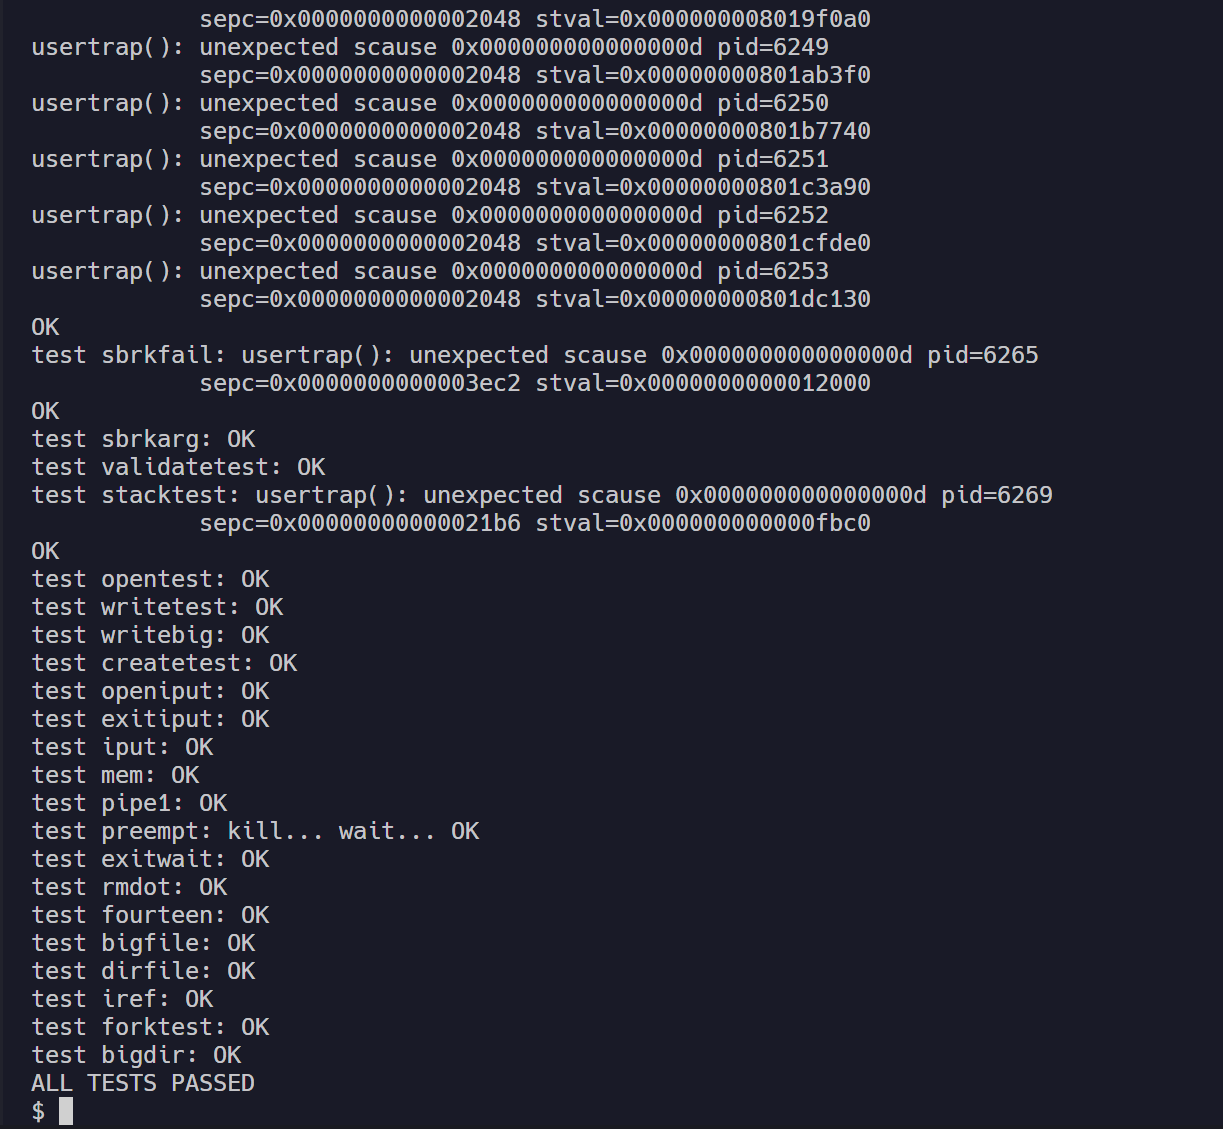
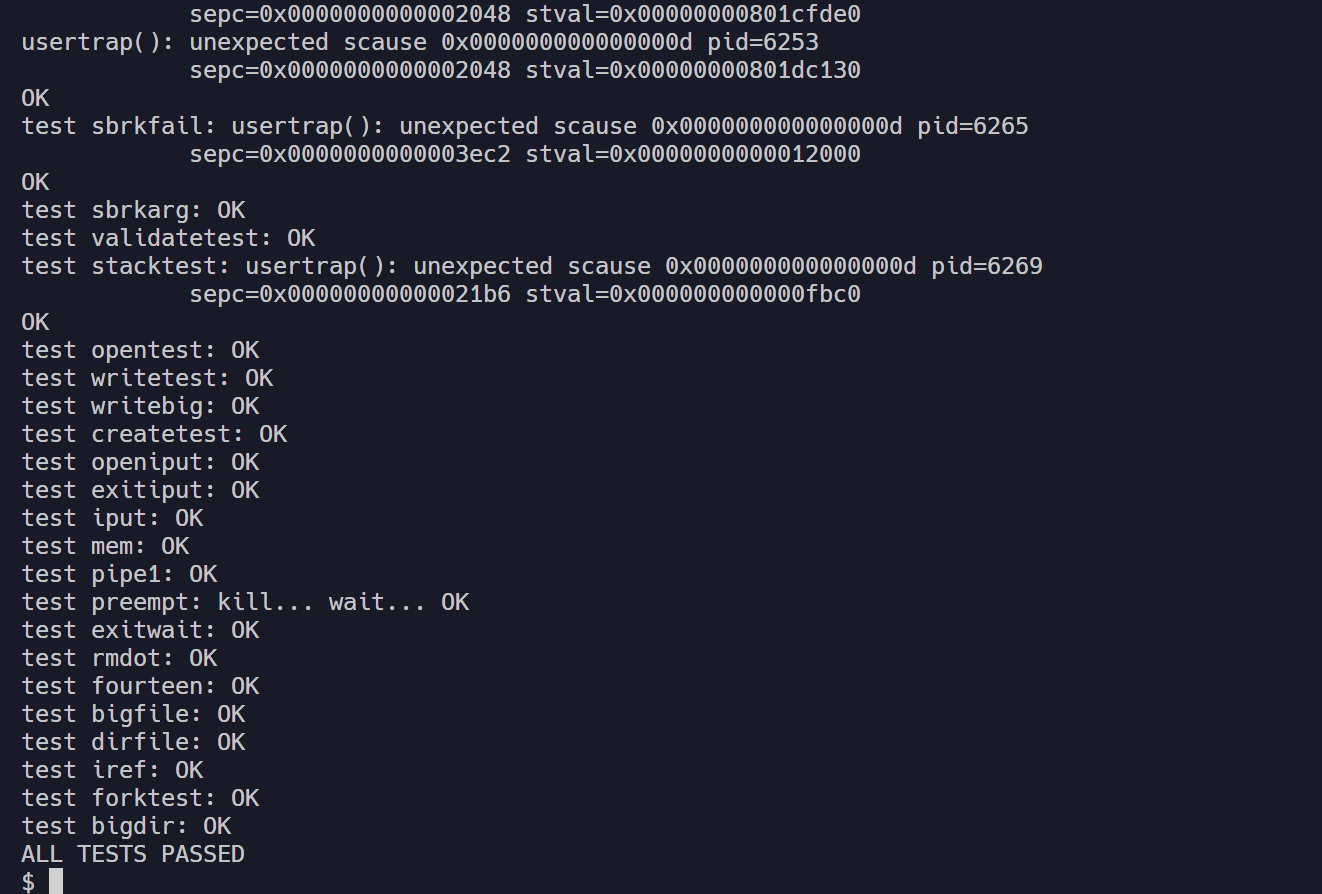
pgtbl:task3 finish

diff --git a/kernel/proc.c b/kernel/proc.c
@@ -34,7 +34,7 @@ void procinit(void) {
     // guard page.
     char *pa = kalloc();
     if (pa == 0) panic("kalloc");
-    p->kstack_pa = (uint64)pa;//pa本身是一个指针
+    p->kstack_pa = (uint64)pa;  // pa本身是一个指针
     uint64 va = KSTACK((int)(p - proc));
     kvmmap(va, (uint64)pa, PGSIZE, PTE_R | PTE_W);
     p->kstack = va;
@@ -118,29 +118,34 @@ found:
   p->context.ra = (uint64)forkret;
   p->context.sp = p->kstack + PGSIZE;
 
-  //设置内核页表
+  // 设置内核页表
   p->k_pagetable = kvminit_kpgtbl();
-  //将内核栈映射到内核页表中
-  if(p->kstack_pa==0){
+  // 将内核栈映射到内核页表中
+  if (p->kstack_pa == 0) {
     freeproc(p);
     release(&p->lock);
     return 0;
   }
 
-  kvmmap_kpgtbl(p->k_pagetable, p->kstack, p->kstack_pa, PGSIZE,  PTE_R | PTE_W);
+  kvmmap_kpgtbl(p->k_pagetable, p->kstack, p->kstack_pa, PGSIZE, PTE_R | PTE_W);
   return p;
 }
 
 // 释放页表但不释放叶子页表指向的物理页帧
-void proc_free_kernal_pgt(pagetable_t pagetable){
-  for(int i=0; i<512; i++){
+void proc_free_kernal_pgt(pagetable_t pagetable) {
+  for (int i = 0; i < 512; i++) {
     pte_t pte = pagetable[i];
-    if((pte & PTE_V) && (pte & (PTE_R | PTE_W | PTE_X)) == 0){
+    //内核页表的二级页表的页表项是否是与用户态页表指向同一地址空间
+    //那就把二级页表看作是叶子节点咯
+    if((pte & PTE_RSW_LOW) !=0 ){
+      pagetable[i] = 0;
+      continue;
+    }
+    if ((pte & PTE_V) && (pte & (PTE_R | PTE_W | PTE_X)) == 0) { //非第三级页表的页表项，还可以遍历
       uint64 child = PTE2PA(pte);
       proc_free_kernal_pgt((pagetable_t)child);
       pagetable[i] = 0;
-    }
-    else if(pte & PTE_V){
+    } else if (pte & PTE_V) {
       pagetable[i] = 0;
     }
   }
@@ -153,17 +158,19 @@ void proc_free_kernal_pgt(pagetable_t pagetable){
 static void freeproc(struct proc *p) {
   if (p->trapframe) kfree((void *)p->trapframe);
   p->trapframe = 0;
-  //释放用户态页表
+  // 释放用户态页表
   if (p->pagetable) proc_freepagetable(p->pagetable, p->sz);
   p->pagetable = 0;
-  //释放内核态页表
-  //释放内核态页表
-  //对于96个二级页表，释放用户页表时候已经释放
-  pagetable_t pa_2tbl = (pagetable_t)PTE2PA(p->k_pagetable[0]);
-  for(int i=0; i<96; i++){
-    pa_2tbl[i] = 0;
+  // 释放内核态页表
+  pagetable_t pa_2tbl = (pagetable_t)PTE2PA(p->k_pagetable[0]);//等号左边为2级页表
+  //不能多次回收归根原因是因为kfree是链表存储的kmem
+  //利用保留位的低位来标识
+  for (int i = 0; i < 96; i++) {
+    pa_2tbl[i] = PTE_RSW_LOW;//这些二级页表项对应的三级页表在用户态页表回收时已经被回收
   }
-  if(p->k_pagetable) proc_free_kernal_pgt(p->k_pagetable);
+  if (p->k_pagetable) {
+    proc_free_kernal_pgt(p->k_pagetable);
+  }
   p->k_pagetable = 0;
   p->sz = 0;
   p->pid = 0;
@@ -205,6 +212,7 @@ pagetable_t proc_pagetable(struct proc *p) {
 
 // Free a process's page table, and free the
 // physical memory it refers to.
+// 先删除物页框，再删除对应到物理页框的三级页表
 void proc_freepagetable(pagetable_t pagetable, uint64 sz) {
   uvmunmap(pagetable, TRAMPOLINE, 1, 0);
   uvmunmap(pagetable, TRAPFRAME, 1, 0);
@@ -219,16 +227,16 @@ uchar initcode[] = {0x17, 0x05, 0x00, 0x00, 0x13, 0x05, 0x45, 0x02, 0x97, 0x05, 
                     0x69, 0x74, 0x00, 0x00, 0x24, 0x00, 0x00, 0x00, 0x00, 0x00, 0x00, 0x00, 0x00};
 
 // Set up first user process.
-//task2初始化第一个进程的创建
+// task2初始化第一个进程的创建
 void userinit(void) {
   struct proc *p;
 
-  p = allocproc();//请和填写进程的PCB
+  p = allocproc();  // 请和填写进程的PCB
   initproc = p;
 
   // allocate one user page and copy init's instructions
   // and data into it.
-  //uvminit完成用户页表的初始化
+  // uvminit完成用户页表的初始化
   uvminit(p->pagetable, initcode, sizeof(initcode));
   p->sz = PGSIZE;
 
@@ -262,7 +270,7 @@ int growproc(int n) {
   }
   p->sz = sz;
 
-  //更新页表
+  // 更新页表
   sync_pagetable(p->pagetable, p->k_pagetable);
 
   return 0;
@@ -307,8 +315,7 @@ int fork(void) {
 
   np->state = RUNNABLE;
 
-
-  //同步页表
+  // 同步页表
   sync_pagetable(np->pagetable, np->k_pagetable);
 
   release(&np->lock);
@@ -461,8 +468,8 @@ int wait(uint64 addr) {
 //  - swtch to start running that process.
 //  - eventually that process transfers control
 //    via swtch back to the scheduler.
-//进程切换
-//调度器运行在全局内核页表下
+// 进程切换
+// 调度器运行在全局内核页表下
 void scheduler(void) {
   struct proc *p;
   struct cpu *c = mycpu();
@@ -480,13 +487,13 @@ void scheduler(void) {
         // before jumping back to us.
         p->state = RUNNING;
         c->proc = p;
-        //将切换后的页表地址放入satp寄存器中
+        // 将切换后的页表地址放入satp寄存器中
         w_satp(MAKE_SATP(p->k_pagetable));
         sfence_vma();
         swtch(&c->context, &p->context);
         // Process is done running for now.
         // It should have changed its p->state before coming back.
-        //换成全局页表
+        // 换成全局页表
         kvminithart();
         c->proc = 0;
         found = 1;
@@ -495,7 +502,7 @@ void scheduler(void) {
     }
 #if !defined(LAB_FS)
     if (found == 0) {
-      //没找到可运行进程时，载入全局内核页表
+      // 没找到可运行进程时，载入全局内核页表
       kvminithart();
       intr_on();
       asm volatile("wfi");

diff --git a/kernel/vm.c b/kernel/vm.c
@@ -418,7 +418,7 @@ int copyout(pagetable_t pagetable, uint64 dstva, char *src, uint64 len) {
 // Copy len bytes to dst from virtual address srcva in a given page table.
 // Return 0 on success, -1 on error.
 int copyin(pagetable_t pagetable, char *dst, uint64 srcva, uint64 len) {
-  w_sstatus(r_sstatus() | SSTATUS_SIE);
+  w_sstatus(r_sstatus() | SSTATUS_SUM);
   int res = copyin_new(pagetable, dst, srcva, len);
   w_sstatus(r_sstatus() & ~SSTATUS_SUM);
   return res;
@@ -501,7 +501,7 @@ void sync_pagetable(pagetable_t user_tbl, pagetable_t kernel_tbl) {
 
   // 获取二级页表的物理地址
   // 96个2级页表项共享内存地址空间
-  pagetable_t u_pa = (pagetable_t)PTE2PA(user_tbl[0]);  // 等号左边是二级页表地址
+  pagetable_t u_pa = (pagetable_t)PTE2PA(user_tbl[0]);  
   pagetable_t k_pa = (pagetable_t)PTE2PA(kernel_tbl[0]);
   for (int i = 0; i < 96; i++) {
     k_pa[i] = u_pa[i];

diff --git a/kernel/riscv.h b/kernel/riscv.h
@@ -346,6 +346,7 @@ sfence_vma()
 #define PTE_W (1L << 2)
 #define PTE_X (1L << 3)
 #define PTE_U (1L << 4) // 1 -> user can access
+#define PTE_RSW_LOW (1L << 8)
 
 // shift a physical address to the right place for a PTE.
 #define PA2PTE(pa) ((((uint64)pa) >> 12) << 10)

diff --git a/README.md b/README.md
@@ -1,8 +1,18 @@
 ## xv6页表
+
 ### task1
 ![alt text](assets/image.png)
+
 ### task2 
 ##### usertests
 ![alt text](assets/image-1.png)
+
 ##### kvmtest
 ![alt text](assets/image-2.png)
+
+### task3
+##### usertests
+![alt text](assets/image-3.png)
+
+### make grade
+![alt text](assets/image-4.png)
